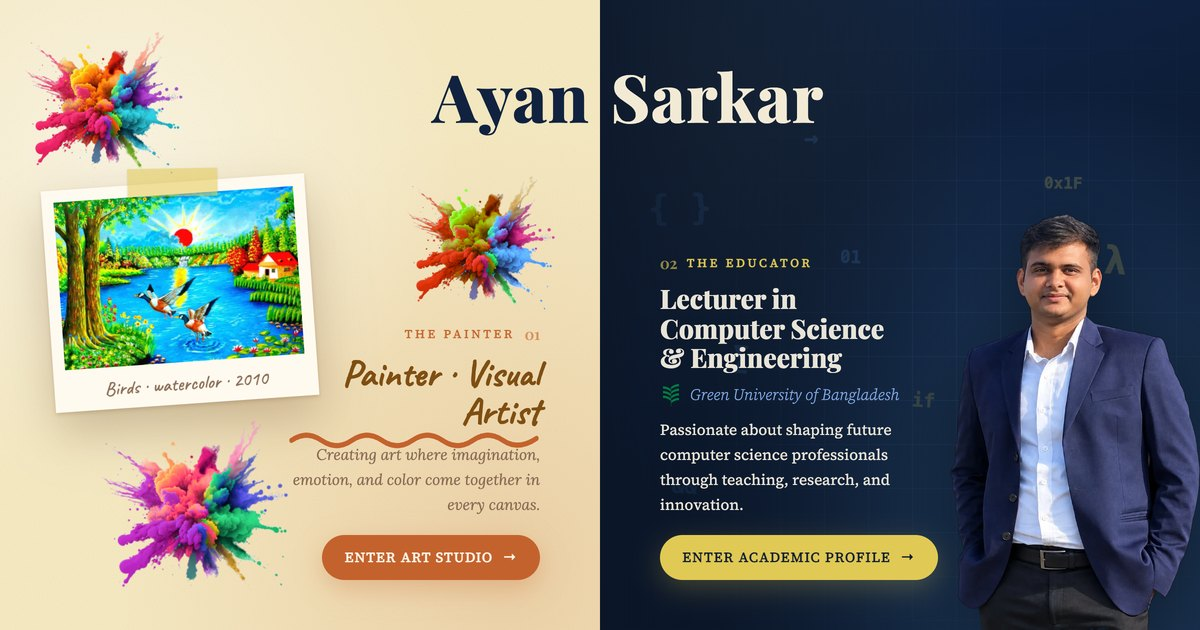
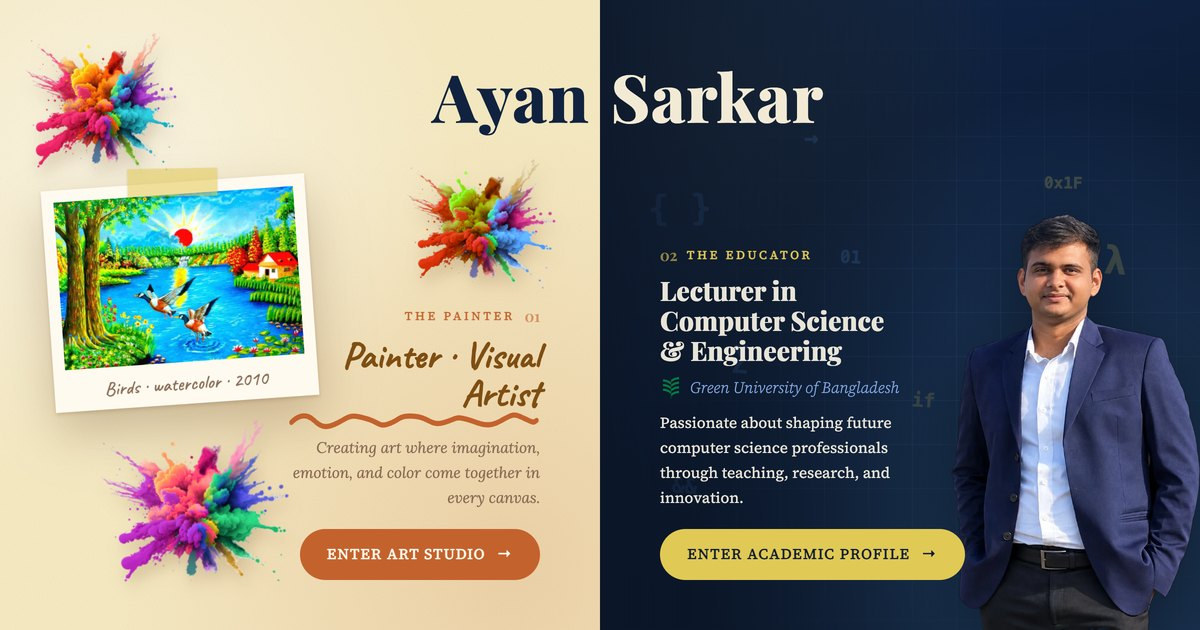
Intro: steady text on hover, 3D splashes, livelier buttons
- Wide screens: the text column has a fixed width and the painting and
  photo are pinned to the seam, so hovering a half only resizes the
  section; nothing re-wraps.
- Every splash tilts slowly in 3D at its own pace, and on hover also
  towards the pointer, lifting with a deeper shadow.
- Enter buttons: larger, with a pulsing glow and a passing sheen.
- The underline wave is irregular, like a hand-drawn brush stroke.
- Share card regenerated (og-image.jpg?v=2).

diff --git a/css/intro.css b/css/intro.css
@@ -114,31 +114,47 @@ html.intro-pending body { visibility: hidden; overflow: hidden; background: #0b1
    corner, one above the art designation and one below the painting.
    Shown no larger than their 360px source so they stay sharp; z-index
    -1 keeps the last two behind the text or paper they sit beside. */
+/* 3D: every splash tilts slowly on its own (--wx/--wy, each at its own
+   pace) and, on hover, also towards the pointer (--rx/--ry, set by
+   js/intro.js), lifting with a deeper shadow. Registering the custom
+   properties lets them animate and transition smoothly. */
+@property --wx   { syntax: '<angle>';  inherits: false; initial-value: 0deg; }
+@property --wy   { syntax: '<angle>';  inherits: false; initial-value: 0deg; }
+@property --rx   { syntax: '<angle>';  inherits: false; initial-value: 0deg; }
+@property --ry   { syntax: '<angle>';  inherits: false; initial-value: 0deg; }
+@property --lift { syntax: '<length>'; inherits: false; initial-value: 0px; }
+@property --grow { syntax: '<number>'; inherits: false; initial-value: 1; }
+
 .intro-splash {
   position: absolute;
   z-index: -1;
   pointer-events: auto;  /* hoverable even inside .intro-bg */
-  filter: hue-rotate(var(--hue, 0deg));
-  transition: transform 0.25s ease-out, filter 0.3s ease;
-  animation: intro-splat 0.8s cubic-bezier(0.34, 1.56, 0.64, 1) both;
+  transform: perspective(560px) rotateX(calc(var(--wx) + var(--rx))) rotateY(calc(var(--wy) + var(--ry))) translateZ(var(--lift)) scale(var(--grow));
+  filter: hue-rotate(var(--hue, 0deg)) drop-shadow(3px 10px 8px rgba(90, 50, 10, 0.2));
+  transition: --rx 0.25s ease-out, --ry 0.25s ease-out, --lift 0.3s ease, --grow 0.3s ease, filter 0.3s ease;
+  animation:
+    intro-splat 0.8s cubic-bezier(0.34, 1.56, 0.64, 1) var(--splat-delay, 0.8s) both,
+    intro-wobble var(--wob, 7s) ease-in-out var(--wob-delay, 0s) infinite alternate;
 }
-/* Hover: the splash tilts towards the pointer (js/intro.js sets --rx and
-   --ry), lifts and casts a shadow, like a blob of paint in 3D */
 .intro-splash:hover {
-  transform: perspective(520px) rotateX(var(--rx, 0deg)) rotateY(var(--ry, 0deg)) translateZ(40px) scale(1.12);
-  filter: hue-rotate(var(--hue, 0deg)) saturate(1.2) drop-shadow(0 18px 16px rgba(90, 50, 10, 0.35));
+  --lift: 44px;
+  --grow: 1.12;
+  filter: hue-rotate(var(--hue, 0deg)) saturate(1.2) drop-shadow(6px 22px 16px rgba(90, 50, 10, 0.35));
 }
-.intro-splash--corner { z-index: 0; width: 200px; left: 3%; top: 3%; animation-delay: 0.75s; }
+.intro-splash--corner { z-index: 0; width: 200px; left: 3%; top: 3%; --splat-delay: 0.75s; }
 /* A small hue shift each, so the three read as different throws of paint */
-.intro-splash--top    { --hue: 35deg; }
-.intro-splash--under  { --hue: -40deg; }
-.intro-splash--top    { width: 190px; right: -20px; top: -190px; animation-delay: 0.9s; }
-.intro-splash--under  { width: 200px; left: 50%; top: calc(100% + 6px); margin-left: -100px; animation-delay: 1.05s; }
+.intro-splash--corner { --wob: 7s; }
+.intro-splash--top    { --hue: 35deg;  --wob: 5.5s; --wob-delay: -2s; }
+.intro-splash--under  { --hue: -40deg; --wob: 8.5s; --wob-delay: -4s; }
+.intro-splash--top    { width: 190px; right: -20px; top: -190px; --splat-delay: 0.9s; }
+.intro-splash--under  { width: 200px; left: 50%; top: calc(100% + 6px); margin-left: -100px; --splat-delay: 1.05s; }
 
 /* ── People ─────────────────────────────────────────────────── */
 .intro-cutout {
   position: absolute;
-  right: 0;
+  /* Pinned to the seam: a shrinking half hides part of the photo
+     instead of pushing it into the text. At rest it meets the edge. */
+  left: calc(50vw - 0.6 * min(70vh, 760px, 48vw));
   bottom: 0;
   height: min(70vh, 760px, 48vw);  /* 48vw: on near-square screens it scales with the width instead of running off the edge */
   width: auto;
@@ -151,9 +167,10 @@ html.intro-pending body { visibility: hidden; overflow: hidden; background: #0b1
 
 .intro-frame {
   position: absolute;
-  left: 8%;
+  /* Pinned to the seam, just outside the text column */
+  right: calc(clamp(1.5rem, 5vw, 5rem) + min(400px, 21vw) - 2vw);
   top: 48%;
-  width: min(44%, 58vh, 520px);
+  width: min(22vw, 58vh, 520px);
   transform: translateY(-54%) rotate(-4deg);
   transition: transform 0.8s var(--i-ease);
   animation: intro-pin 1.1s var(--i-ease) 0.55s both;
@@ -201,7 +218,7 @@ html.intro-pending body { visibility: hidden; overflow: hidden; background: #0b1
   display: flex;
   flex-direction: column;
   gap: 0.85rem;
-  max-width: min(400px, 42%);
+  max-width: min(400px, 21vw);  /* vw, not %, so hovering a half never re-wraps the text */
 }
 .intro-side--acad .intro-copy { left: clamp(1.5rem, 5vw, 5rem); align-items: flex-start; }
 .intro-side--art  .intro-copy { right: clamp(1.5rem, 5vw, 5rem); align-items: flex-end; }
@@ -216,13 +233,13 @@ html.intro-pending body { visibility: hidden; overflow: hidden; background: #0b1
   background: linear-gradient(90deg, rgba(11, 22, 40, 0.85) 0%, rgba(11, 22, 40, 0.35) 45%, transparent 65%);
 }
 
-.intro-copy > * { animation: intro-up 0.8s var(--i-ease) both; }
-.intro-copy > :nth-child(1) { animation-delay: 0.70s; }
-.intro-copy > :nth-child(2) { animation-delay: 0.78s; }
-.intro-copy > :nth-child(3) { animation-delay: 0.86s; }
-.intro-copy > :nth-child(4) { animation-delay: 0.94s; }
-.intro-copy > :nth-child(5) { animation-delay: 1.02s; }
-.intro-copy > :nth-child(6) { animation-delay: 1.10s; }
+.intro-copy > :not(.intro-splash) { animation: intro-up 0.8s var(--i-ease) both; }
+.intro-copy > :not(.intro-splash):nth-child(1) { animation-delay: 0.70s; }
+.intro-copy > :not(.intro-splash):nth-child(2) { animation-delay: 0.78s; }
+.intro-copy > :not(.intro-splash):nth-child(3) { animation-delay: 0.86s; }
+.intro-copy > :not(.intro-splash):nth-child(4) { animation-delay: 0.94s; }
+.intro-copy > :not(.intro-splash):nth-child(5) { animation-delay: 1.02s; }
+.intro-copy > :not(.intro-splash):nth-child(6) { animation-delay: 1.10s; }
 
 .intro-kicker {
   display: inline-flex;
@@ -255,6 +272,7 @@ html.intro-pending body { visibility: hidden; overflow: hidden; background: #0b1
   font-weight: 700;
   line-height: 1;
   color: #7f4e12;
+  margin-bottom: 0.3em;  /* room for the wavy stroke */
 }
 .intro-stroke {
   position: absolute;
@@ -290,24 +308,35 @@ html.intro-pending body { visibility: hidden; overflow: hidden; background: #0b1
 
 
 .intro-cta {
+  --glow: 225, 201, 85;
+  position: relative;
+  overflow: hidden;
   display: inline-flex;
   align-items: center;
-  gap: 0.6rem;
-  margin-top: 0.4rem;
-  padding: 0.8rem 1.4rem;
+  gap: 0.7rem;
+  margin-top: 0.5rem;
+  padding: 0.95rem 1.7rem;
   border-radius: 999px;
-  font-size: 0.86rem;
-  font-weight: 600;
+  font-size: 0.92rem;
+  font-weight: 700;
   letter-spacing: 0.08em;
   text-transform: uppercase;
   white-space: nowrap;
-  transition: gap 0.3s ease, box-shadow 0.3s ease;
+  transition: gap 0.3s ease, transform 0.3s ease;
+  animation: intro-up 0.8s var(--i-ease) 1.1s both, intro-glow 2.6s ease-in-out 2s infinite;
 }
-.intro-side--acad .intro-cta { background: #e1c955; color: #0d1b2e; box-shadow: 0 8px 26px rgba(225, 201, 85, 0.25); }
-.intro-side--art  .intro-cta { background: #c4622d; color: #fff8ec; box-shadow: 0 8px 26px rgba(196, 98, 45, 0.3); }
-.intro-side:hover .intro-cta { gap: 1rem; }
-.intro-side--acad:hover .intro-cta { box-shadow: 0 10px 34px rgba(225, 201, 85, 0.45); }
-.intro-side--art:hover  .intro-cta { box-shadow: 0 10px 34px rgba(196, 98, 45, 0.5); }
+/* A light sheen that sweeps across every few seconds */
+.intro-cta::after {
+  content: '';
+  position: absolute;
+  inset: 0;
+  background: linear-gradient(105deg, transparent 35%, rgba(255, 255, 255, 0.55) 50%, transparent 65%);
+  translate: -120% 0;
+  animation: intro-shine 4.5s ease-in-out 2.4s infinite;
+}
+.intro-side--acad .intro-cta { background: #e1c955; color: #0d1b2e; }
+.intro-side--art  .intro-cta { --glow: 196, 98, 45; background: #c4622d; color: #fff8ec; }
+.intro-side:hover .intro-cta { gap: 1.1rem; transform: translateY(-2px) scale(1.04); }
 
 /* ── Name: "Ayan" on the left (art) half, "Sarkar" on the right ─
    Each word belongs to its half, so it moves with the seam when a
@@ -370,6 +399,17 @@ html.intro-pending body { visibility: hidden; overflow: hidden; background: #0b1
 @keyframes intro-rise  { from { opacity: 0; transform: translateY(10%); } to { opacity: 1; transform: none; } }
 @keyframes intro-pin   { from { opacity: 0; transform: translateY(-40%) rotate(-14deg) scale(0.9); } to { opacity: 1; transform: translateY(-54%) rotate(-4deg); } }
 @keyframes intro-splat { from { opacity: 0; scale: 0.2; rotate: -30deg; } to { opacity: 1; scale: 1; rotate: 0deg; } }
+@keyframes intro-glow {
+  0%, 100% { box-shadow: 0 8px 24px rgba(var(--glow), 0.35), 0 0 0 0 rgba(var(--glow), 0.5); }
+  50%      { box-shadow: 0 10px 34px rgba(var(--glow), 0.55), 0 0 0 9px rgba(var(--glow), 0); }
+}
+@keyframes intro-shine { 0%, 60% { translate: -120% 0; } 100% { translate: 120% 0; } }
+@keyframes intro-wobble {
+  0%   { --wx: 16deg;  --wy: -20deg; }
+  35%  { --wx: -12deg; --wy: 8deg; }
+  70%  { --wx: 6deg;   --wy: 22deg; }
+  100% { --wx: -18deg; --wy: -6deg; }
+}
 @keyframes intro-name  { from { opacity: 0; letter-spacing: 0.35em; filter: blur(8px); } to { opacity: 1; letter-spacing: 0.01em; filter: none; } }
 @keyframes intro-draw  { to { stroke-dashoffset: 0; } }
 @keyframes intro-float { from { transform: translateY(-10px) rotate(-4deg); } to { transform: translateY(12px) rotate(4deg); } }
@@ -410,17 +450,17 @@ html.intro-pending body { visibility: hidden; overflow: hidden; background: #0b1
   .intro-side--acad .intro-copy { left: 1.25rem; width: 56%; top: calc(2vh + min(11vw, 6vh) + 2.4vh); }
   .intro-side--art  .intro-copy { right: 1.25rem; width: 52%; top: 46%; }
   .intro-side--acad .intro-kicker { margin-top: auto; }  /* centres the text above the button */
-  .intro-cta { margin-top: auto; padding: 0.6rem 1rem; font-size: 0.72rem; letter-spacing: 0.05em; }
+  .intro-cta { margin-top: auto; padding: 0.68rem 1.15rem; font-size: 0.76rem; letter-spacing: 0.05em; }
   .intro-tag, .intro-org { display: none; }
   .intro-role { font-size: clamp(1.15rem, 5.4vw, 1.5rem); }
   .intro-side--art .intro-role { font-size: clamp(1.6rem, 7.6vw, 2.1rem); }
 
   /* Academic: photo at the right, a little in from the edge, sized by
      the screen width so it is never cut off */
-  .intro-cutout { height: min(72%, 74vw); right: 8vw; }
+  .intro-cutout { height: min(72%, 74vw); left: auto; right: 8vw; }
 
   /* Art: the painting at the left, a little in from the edge */
-  .intro-frame { left: 8%; top: 7%; width: min(50vw, 26vh); animation-name: intro-pin-m; }
+  .intro-frame { left: 8%; right: auto; top: 7%; width: min(50vw, 26vh); animation-name: intro-pin-m; }
   .intro-card { padding: 7px 7px 24px; }
   .intro-caption { font-size: 0.85rem; bottom: 3px; }
   .intro-tape { height: 16px; top: -8px; }
@@ -443,13 +483,14 @@ html.intro-pending body { visibility: hidden; overflow: hidden; background: #0b1
   .intro-side--art .intro-role { font-size: clamp(2rem, min(3.4vw, 6vh), 3.2rem); }
   .intro-splash--top { width: 160px; top: -160px; }
   .intro-splash--corner { width: 170px; }
-  .intro-cutout { height: min(66vh, 760px, 48vw); }
+  .intro-cutout { height: min(66vh, 760px, 48vw); left: calc(50vw - 0.6 * min(66vh, 760px, 48vw)); }
 }
 
 /* ── Reduced motion: no slides, drifting or spinning ────────── */
 @media (prefers-reduced-motion: reduce) {
   .intro *, .intro *::before, .intro { animation-duration: 0.01ms !important; animation-delay: 0s !important; animation-iteration-count: 1 !important; }
   .intro-side, .intro-cutout, .intro-frame, .intro-grid, .intro-glyph, .intro-splash { transition: none !important; }
-  .intro-splash:hover { transform: none; }
+  .intro-splash { animation: intro-splat 0.01ms both; }
+  .intro-splash:hover { --lift: 0px; --grow: 1; }
   .intro-stroke path { stroke-dashoffset: 0; }
 }

diff --git a/js/intro.js b/js/intro.js
@@ -53,7 +53,7 @@ const Intro = (() => {
         <span class="intro-copy">
           <img class="intro-splash intro-splash--top" src="images/intro/splash.webp" alt="" aria-hidden="true"/>
           <span class="intro-kicker">The Painter<span class="intro-num">01</span></span>
-          <span class="intro-role">${prof.art.eyebrow}<svg class="intro-stroke" viewBox="0 0 300 20" preserveAspectRatio="none" aria-hidden="true"><path d="M4 11 Q 22 1, 40 11 T 76 11 T 112 11 T 148 11 T 184 11 T 220 11 T 256 11 T 296 9"/></svg></span>
+          <span class="intro-role">${prof.art.eyebrow}<svg class="intro-stroke" viewBox="0 0 300 20" preserveAspectRatio="none" aria-hidden="true"><path d="M4 12 C 12 5, 22 3, 31 10 S 46 18, 60 12 S 74 4, 92 8 S 108 17, 121 13 S 132 5, 150 6 S 170 16, 186 12 S 199 6, 213 9 S 236 18, 252 11 S 268 3, 281 8 S 292 12, 296 10"/></svg></span>
           <span class="intro-tag">${prof.art.tagline}</span>
           <span class="intro-cta">Enter Art Studio <span aria-hidden="true">→</span></span>
         </span>
@@ -125,6 +125,12 @@ const Intro = (() => {
       if (side) choose(side.dataset.mode);
     });
     el.addEventListener('pointermove', onMove, { passive: true });
+    el.addEventListener('pointerout', e => {
+      if (e.target.classList && e.target.classList.contains('intro-splash')) {
+        e.target.style.setProperty('--rx', '0deg');
+        e.target.style.setProperty('--ry', '0deg');
+      }
+    });
     document.addEventListener('keydown', onKey);
     el.focus({ preventScroll: true });
     document.documentElement.classList.remove('intro-pending');

diff --git a/index.html b/index.html
@@ -17,7 +17,7 @@
   <meta property="og:type" content="website"/>
   <meta property="og:title" content="Ayan Sarkar — Lecturer, CSE, Green University of Bangladesh (GUB)"/>
   <meta property="og:description" content="Lecturer at Green University of Bangladesh and painter. Explore academic work, research, projects, and original artwork in one portfolio."/>
-  <meta property="og:image" content="https://ayan-1829.github.io/images/og-image.jpg?v=1"/>
+  <meta property="og:image" content="https://ayan-1829.github.io/images/og-image.jpg?v=2"/>
   <meta property="og:image:type" content="image/jpeg"/>
   <meta property="og:image:width" content="1200"/>
   <meta property="og:image:height" content="630"/>
@@ -30,7 +30,7 @@
   <meta name="twitter:card" content="summary_large_image"/>
   <meta name="twitter:title" content="Ayan Sarkar — Lecturer, CSE &amp; Visual Artist"/>
   <meta name="twitter:description" content="Lecturer at Green University of Bangladesh and painter. Explore academic work, research, projects, and original artwork in one portfolio."/>
-  <meta name="twitter:image" content="https://ayan-1829.github.io/images/og-image.jpg?v=1"/>
+  <meta name="twitter:image" content="https://ayan-1829.github.io/images/og-image.jpg?v=2"/>
   <meta name="twitter:image:alt" content="Ayan Sarkar: painter and lecturer in Computer Science &amp; Engineering"/>
 
   <meta name="theme-color" content="#0d1b2e"/>
